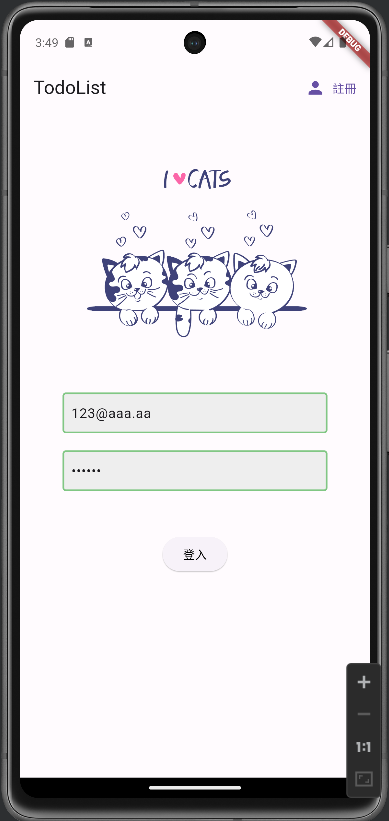
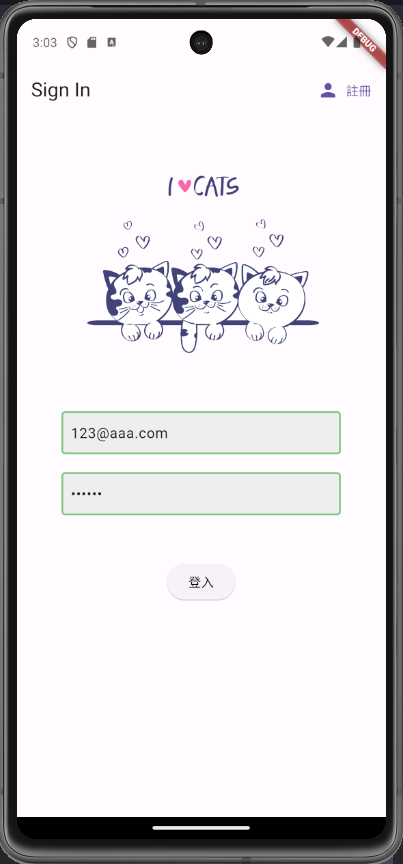
0303

diff --git a/README.md b/README.md
@@ -1,7 +1,7 @@
-# flutter_todolist
+# TodoList
 
-A new Flutter project.
+## Firebase
 
-## Getting Started
+使用Firebase實現登入和註冊功能
 
 <img src="signin.png" alt="登入畫面" width="200" height="400">
